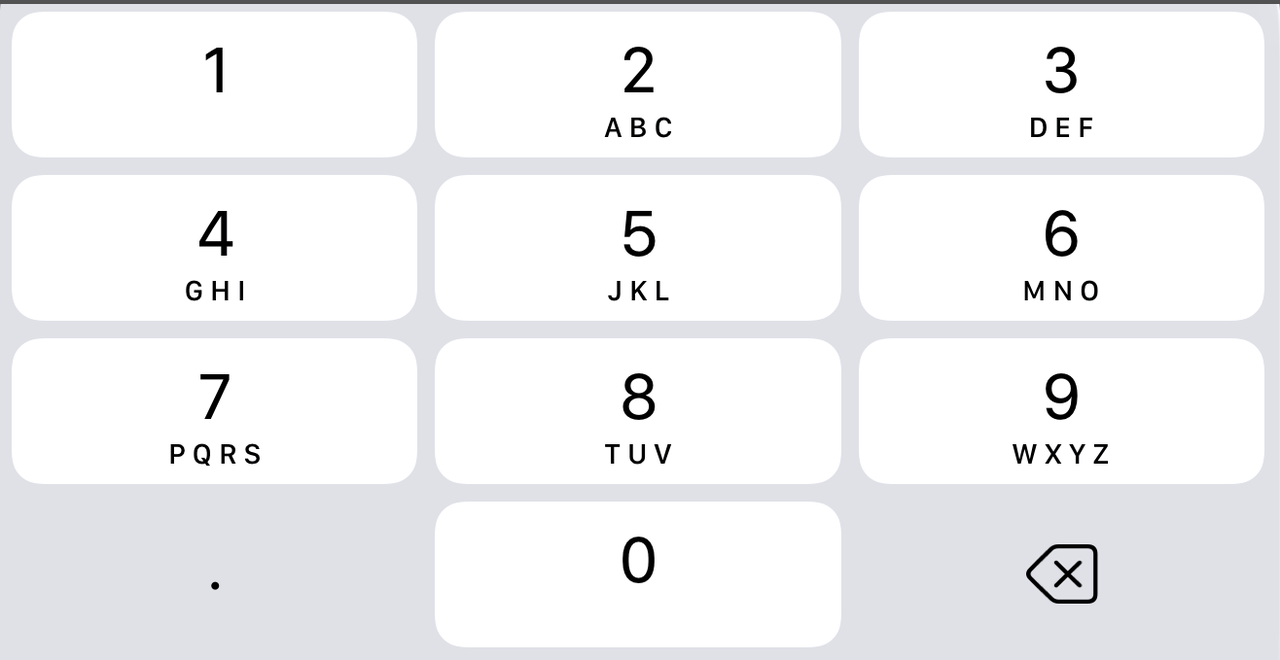
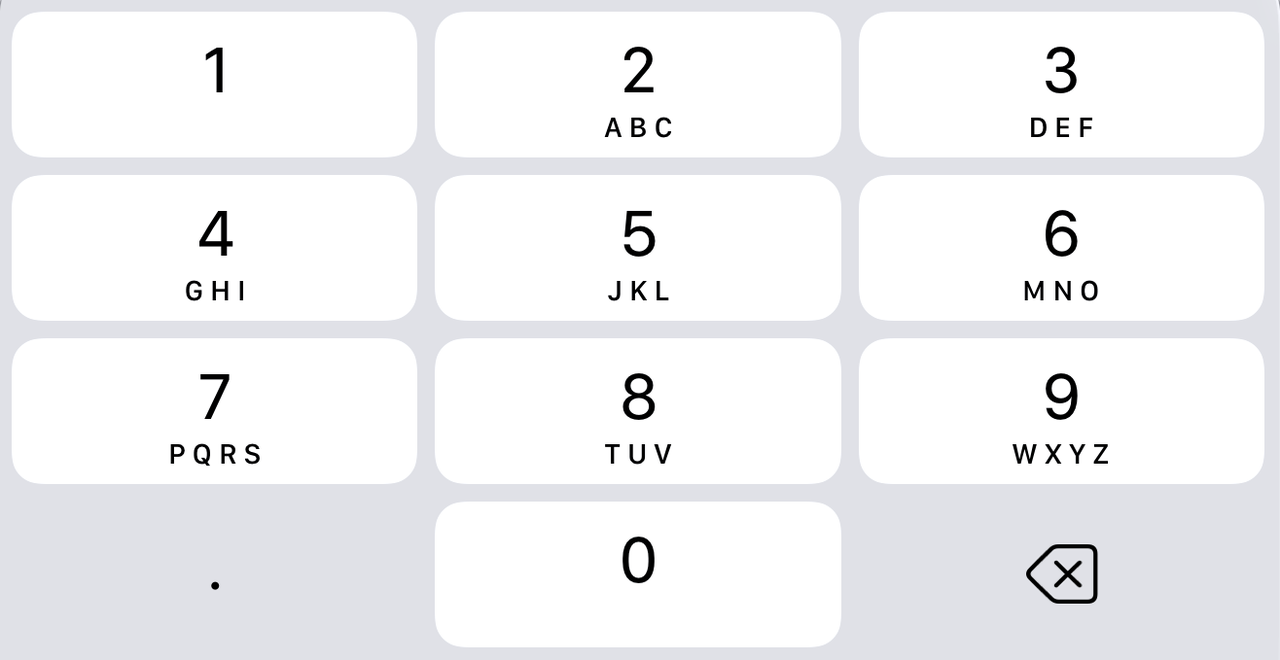
added steppers to edit quantity easily, added number pad image, centered stepper buttons, consistent with kitchen add item

Changed region(s): [[0.0, 0.0, 1.0, 0.0303]]

diff --git a/index.html b/index.html
@@ -123,18 +123,21 @@
           <input name="itemName" class="field full-width text-input">
         </label>
 
-        <label class="field-label">Quantity
-          <input name="qty" class="field qty" type="number" min="0.01" step="any" value="1">
-        </label>
+        <!-- making the shopping list add item consistnt with the kitchen, adding steppers, numpad -->
+        <div class="field-row">
+          <span class="field-label inline">Quantity</span>
+          <button type="button" class="stepper-button" data-step="-1">-</button>
+          <input name="qty" class="field qty text-input number-input" type="text" value="1">
+          <button type="button" class="stepper-button" data-step="1">+</button>
+          <div class="field dropdown wide"><select name="unit"></select></div>
+        </div>
 
-        <label class="field-label">Unit
-          <select name="unit" class="field"></select>
-        </label>
-
-        <span class="field-label">Whose</span>
-        <div class="choice" id="shopOwner" role="radiogroup" aria-label="Whose item">
-          <button type="button" data-value="Me" class="active">Me</button>
-          <button type="button" data-value="Shared">Shared</button>
+        <div class="field-row">
+          <span class="field-label inline">Whose</span>
+          <div class="choice" id="shopOwner">
+            <button type="button" data-value="Me" class="active">Me</button>
+            <button type="button" data-value="Shared">Shared</button>
+          </div>
         </div>
         <div class="actions">
           <button type="submit" class="btn primary">Save</button>

diff --git a/style.css b/style.css
@@ -910,7 +910,6 @@ select.field {
        bottom: 0;
        width: 640px;
        z-index: 20;
-       border-top: 2px solid var(--border);
 }
 
 #device.keyboard-open .screen {
@@ -1003,4 +1002,8 @@ select.field {
 }
 .field-row .qty {
        width: 96px;
+}
+.field-row .choice {
+       width: 288px;
+       margin-bottom: 0;
 }
